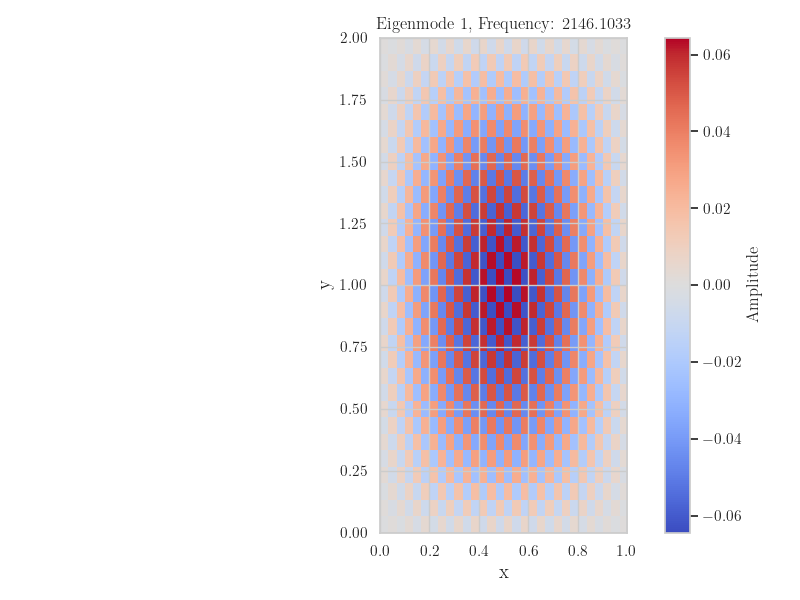
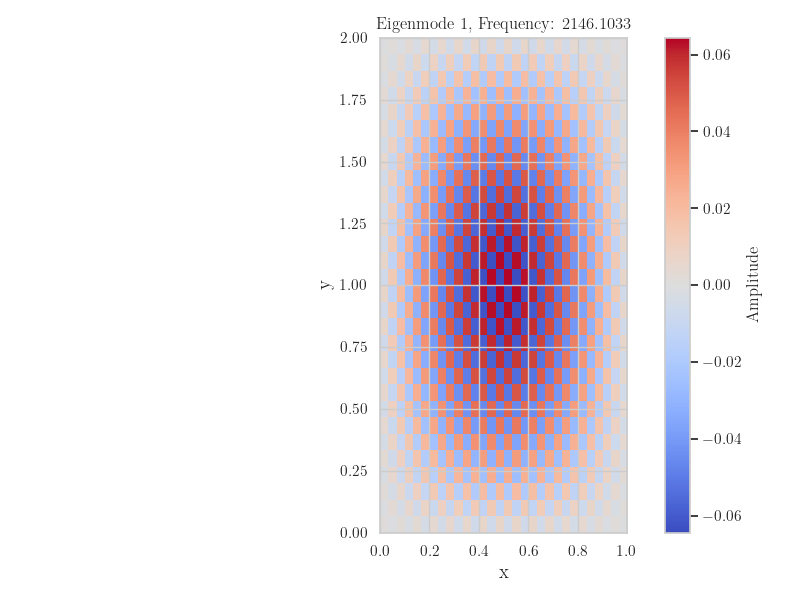
add scipy.linalg.eigh

Changed region(s): [[0.4688, 0.06, 0.7812, 0.9]]

diff --git a/src/membrane_solver.py b/src/membrane_solver.py
@@ -16,6 +16,8 @@ import matplotlib.pyplot as plt
 from matplotlib.animation import FuncAnimation
 import seaborn as sns
 import matplotlib.animation as animation
+from scipy.sparse import linalg as sparse_linalg
+from scipy.sparse import lil_matrix
 
 # Plotting parameters
 sns.set(style="whitegrid")  # Use seaborn style
@@ -75,8 +77,13 @@ class MembraneSolver:
         # Laplacian matrix
         #     1
         #   1-4 1
-        #     1
-        A = np.zeros((n**2, n**2))
+        #     1        
+        if self.use_sparse:
+            from scipy.sparse import lil_matrix
+            A = lil_matrix((n**2, n**2))
+        else:
+            A = np.zeros((n**2, n**2))
+            
         for i in range(n):
             for j in range(n):
                 idx = i * n + j
@@ -98,11 +105,12 @@ class MembraneSolver:
         h_x = self.L / (n + 1)
         h_y = (2 * self.L) / (n + 1) # Grid spacing in y direction (twice as long)
         
-        # Laplacian matrix
-        #     1
-        #   1-4 1
-        #     1
-        A = np.zeros((n**2, n**2))
+        # Laplacian matrix       
+        if self.use_sparse:
+            A = lil_matrix((n**2, n**2))
+        else:
+            A = np.zeros((n**2, n**2))
+       
         for i in range(n):
             for j in range(n):
                 idx = i * n + j
@@ -133,20 +141,29 @@ class MembraneSolver:
             raise ValueError("Matrix not built yet. Call build_matrix() first.")
         
         A_scaled = self.A / (self.h**2)
-        eigenvalues, eigenvectors = np.linalg.eigh(A_scaled)
         
-        idx = eigenvalues.argsort()
-        eigenvalues = eigenvalues[idx]
-        eigenvectors = eigenvectors[:, idx]
+        # Eigenvalue problem
+        if self.use_sparse:
+            eigenvalues, eigenvectors = sparse_linalg.eigsh(A_scaled, k=num_modes, which='SM')
+        else:
+            eigenvalues, eigenvectors = np.linalg.eig(A_scaled)
+            
+            # Sort eigenvalues and corresponding eigenvectors
+            idx = eigenvalues.argsort()
+            eigenvalues = eigenvalues[idx]
+            eigenvectors = eigenvectors[:, idx]
+            
+            eigenvalues = eigenvalues[:num_modes]
+            
+            # Ensure real-valued eigenvectors by taking the real part
+            # and normalizing the eigenvectors
+            eigenvectors = eigenvectors[:, :num_modes].real
+            for i in range(num_modes):
+                eigenvectors[:, i] /= np.linalg.norm(eigenvectors[:, i])
         
-        # take the first(smallest) num_modes eigenvalues and eigenvectors
-        eigenvalues = eigenvalues[:num_modes]
-        eigenvectors = eigenvectors[:, :num_modes]
-          
-        # frequencies from eigenvalues (labmda^2 = -K)
+        # K = -lambda^2
         frequencies = np.sqrt(-eigenvalues)
-        
-        # Store results
+
         self.eigenvalues = eigenvalues
         self.eigenvectors = eigenvectors
         self.frequencies = frequencies
